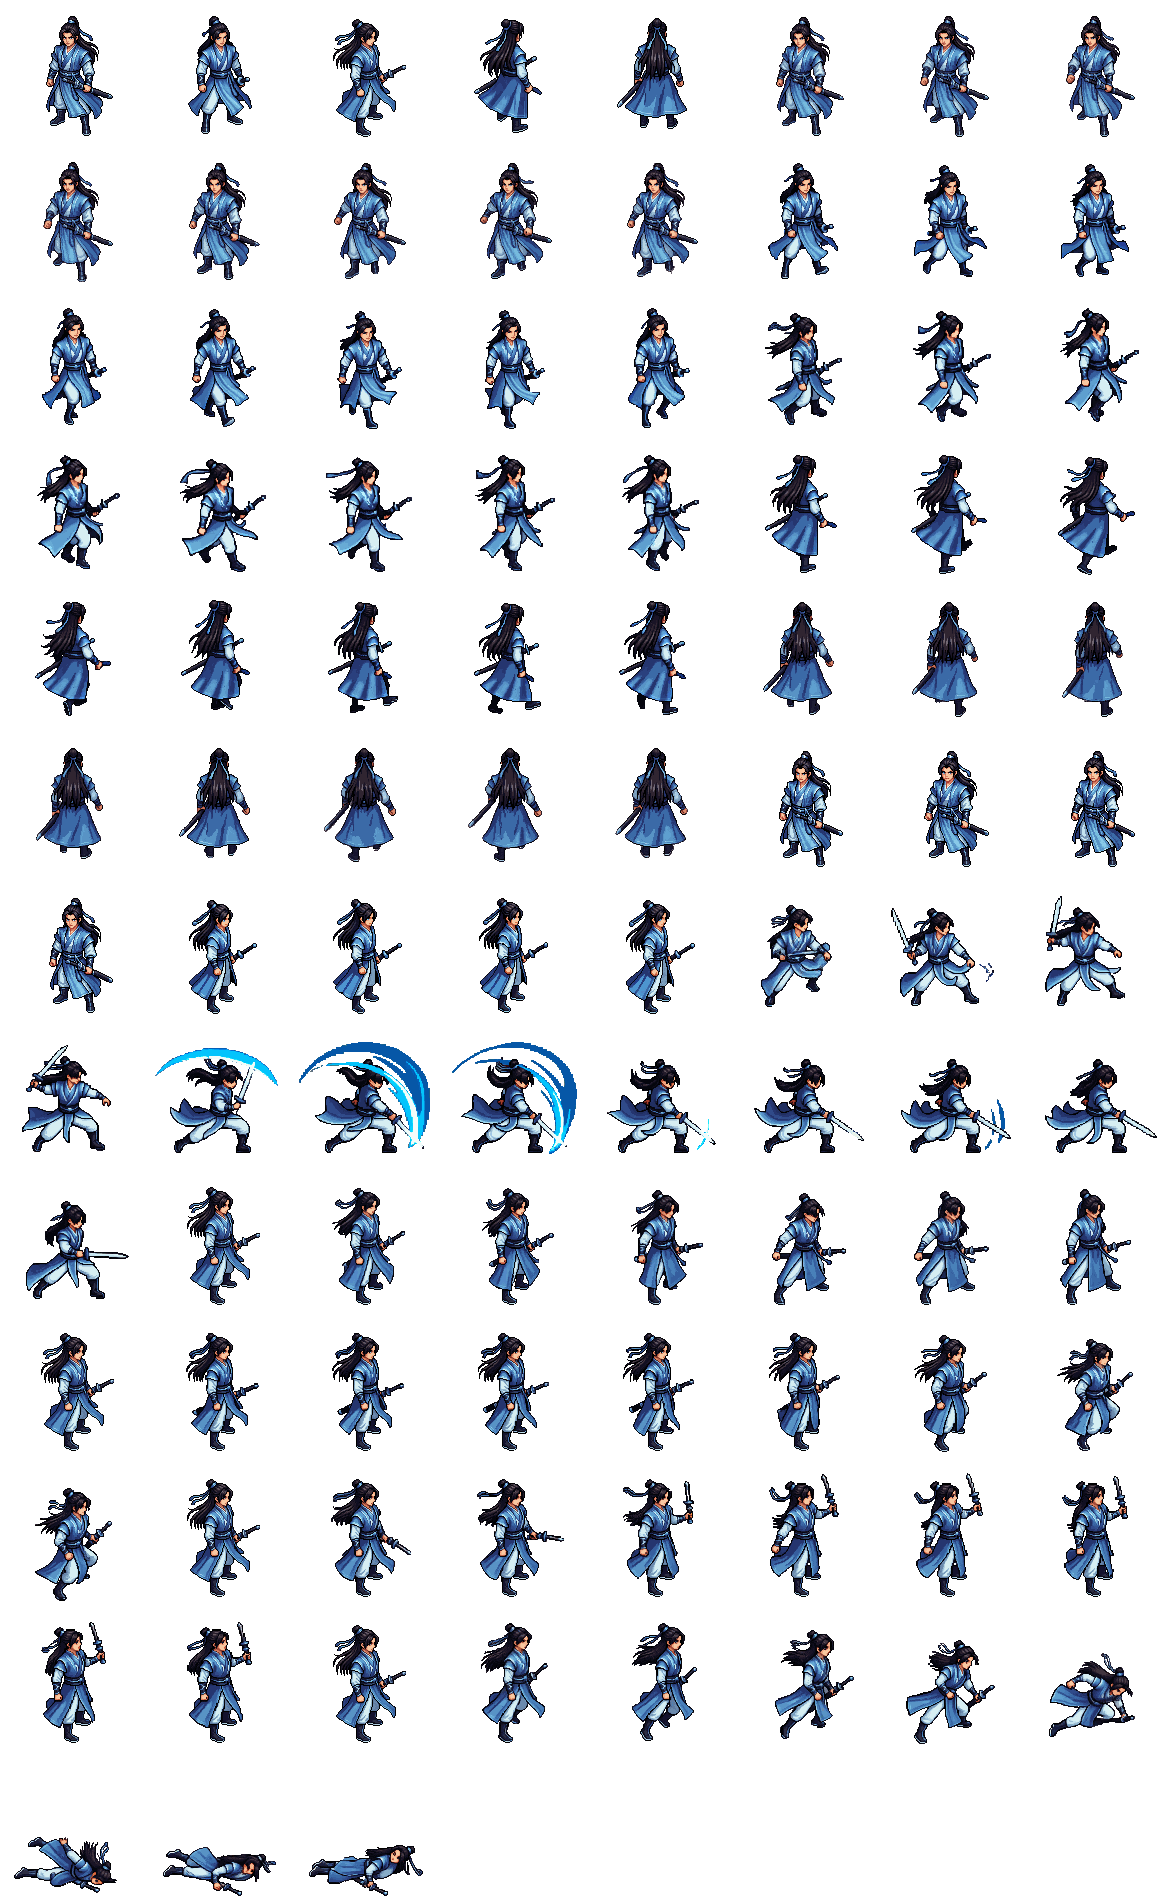
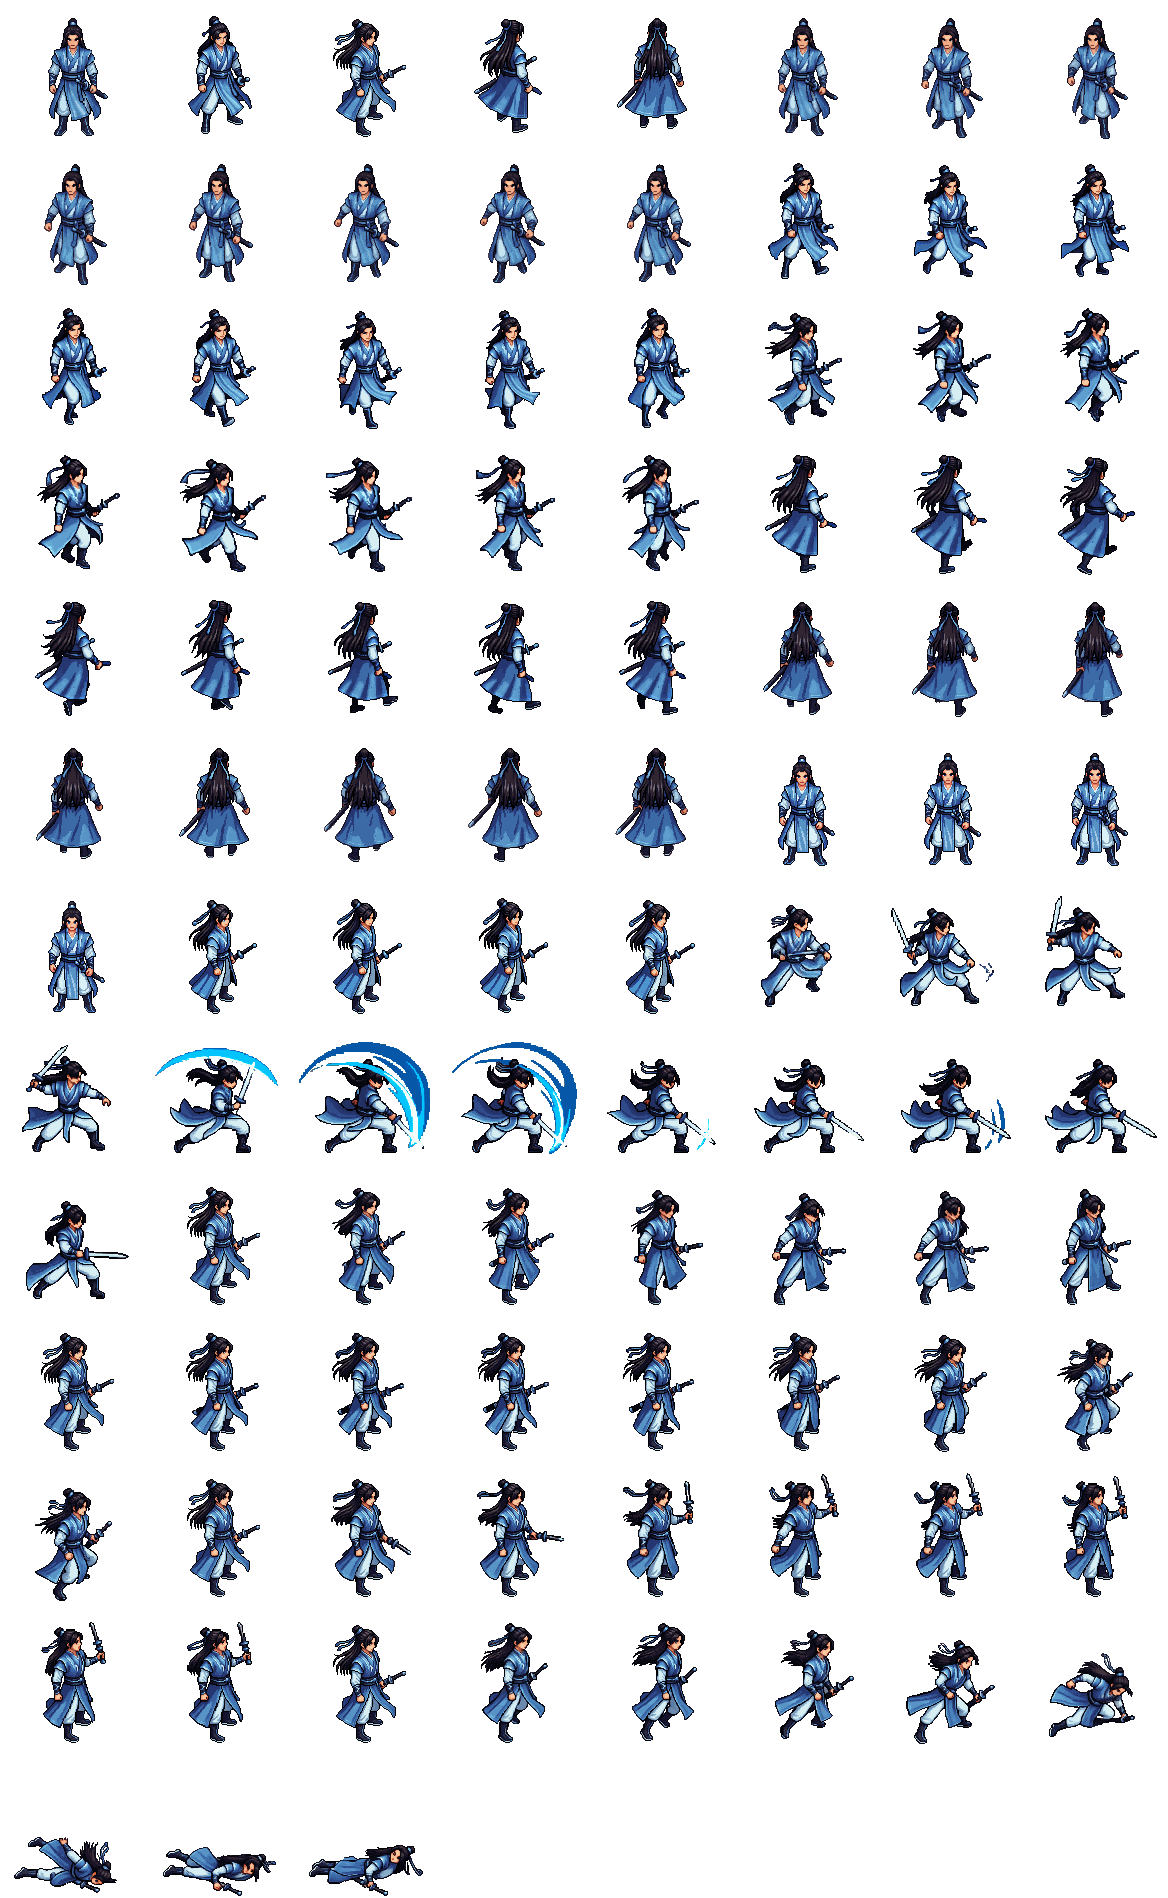
m1: walk south square to the camera (m1_square state)
m1's south rotation stands side-on, so even the skeleton walk built on it
looked sideways. A PixelLab state of him standing square-on (m1_square)
now gives his south walk, breathing idle and standing pose. The sheet
builder lines up a state's frames by its south pose's feet.

Claude-Session: https://claude.ai/code/session_015NF6nczcB9pq1DHZKmDsF7

diff --git a/scripts/build-pixellab-sheets.ts b/scripts/build-pixellab-sheets.ts
@@ -40,7 +40,7 @@
 import sharp from "sharp";
 import { createHash } from "node:crypto";
 import { existsSync, mkdirSync, readdirSync, readFileSync, writeFileSync } from "node:fs";
-import { join } from "node:path";
+import { join, relative, sep } from "node:path";
 import { PL_SHEET_DATA } from "../lib/characters/pl-sheets-data";
 import type { PlSheet } from "../lib/characters/pl-sheets";
 import type { CharacterClip, CharacterMotion } from "../lib/characters/catalog";
@@ -119,10 +119,18 @@ async function pack(id: string): Promise<PlSheet> {
   const defeat = add(clipOr("defeat", "east"));
 
   const frames = await Promise.all(paths.map(readFrame));
-  // The feet: the bottom of the standing south pose; the body's axis: the base canvas's centre.
-  const south = frames[stand.S];
+  // The feet: the bottom of the character's own standing south pose; the body's axis: the base canvas's centre.
+  const south = await readFrame(join(root, "rotations", "south.png"));
   const feet = south.box.y1 + 1 - south.dy, axis = BASE / 2;
   const figure = south.box.y1 - south.box.y0 + 1;
+  // A frame from another character (a state of the same person) stands its feet where that character's do:
+  // move it so its south pose's feet meet this one's.
+  const sources = [...new Set(paths.map((p) => relative(from!, p).split(sep)[0]).filter((c) => c !== id))];
+  for (const c of sources) {
+    const theirs = await readFrame(join(from!, c, "rotations", "south.png"));
+    const shift = feet - (theirs.box.y1 + 1 - theirs.dy);
+    paths.forEach((p, i) => { if (relative(from!, p).split(sep)[0] === c) frames[i].dy -= shift; });
+  }
   let left = 0, right = 0, up = 0, down = 0;
   for (const f of frames) {
     left = Math.max(left, axis - (f.box.x0 - f.dx));

diff --git a/lib/characters/pl-sheets-data.ts b/lib/characters/pl-sheets-data.ts
@@ -82,7 +82,7 @@ export const PL_SHEET_DATA: Record<string, PlSheet> = {
   },
   "m1": {
     "id": "m1",
-    "url": "/art/characters/pl/m1.png?v=2f648efa",
+    "url": "/art/characters/pl/m1.png?v=925d6750",
     "cell": 146,
     "columns": 8,
     "rows": 13,

diff --git a/docs/assets.md b/docs/assets.md
@@ -182,7 +182,7 @@ A person costs about 50 generations (3 to create, about 47 to animate); a beast 
 
 **Templates redraw the figure; v3 keeps it.** A template clip (`walking-8-frames`, `taking-punch`, `falling-back-death`, `fight-stance-idle-8-frames`) is redrawn frame by frame from a bare skeleton: the sword came and went between walk frames, the hit and the fall started from a boxer's fists and the fall kicked into the air. Template `skeleton-v3` (the skeleton posed onto the character's own pixels) is steadier but still let the sword drift. v3 custom clips that say what must stay ("the sword stays sheathed at his hip in every frame") keep the outfit and weapon whole, so every person clip except the breathing idle and the front / back walks (below) is v3. A take is picked per clip in `scripts/pixellab-characters.json` (`clips`), so a re-roll under a new animation name replaces a clip without renaming anything. `"walk:south"` picks a take for one direction only.
 
-**Front and back walks come from `skeleton-v3`.** The v3 loops for south and north drew the body turned to one side and slid the feet the wrong way (a foot crept forward and snapped back), so walking down or up the screen looked like stepping backward; re-rolls that asked for a square-on body were straighter but still slid. Template `walking-8-frames` in `skeleton-v3` mode (2 generations a direction) poses a real walk cycle onto the character's own pixels: square to the camera, sword in place, the feet alternating cleanly, and the eighth frame leads back into the first. Both heroes use it for `walk:south` and `walk:north` (`walk_skel`). Check a walk by its feet: the planted foot should slide against the way the body goes and the lifted one swing the way it goes; a backward range (`"walk_loop#7-0"`) plays a take in reverse.
+**Front and back walks come from `skeleton-v3`.** The v3 loops for south and north drew the body turned to one side and slid the feet the wrong way (a foot crept forward and snapped back), so walking down or up the screen looked like stepping backward; re-rolls that asked for a square-on body were straighter but still slid. Template `walking-8-frames` in `skeleton-v3` mode (2 generations a direction) poses a real walk cycle onto the character's own pixels: square to the camera, sword in place, the feet alternating cleanly, and the eighth frame leads back into the first. Both heroes use it for `walk:south` and `walk:north` (`walk_skel`). The skeleton keeps the pose it starts from, and m1's south rotation stands side-on (feet wide, turned to his left), so his south walk still looked sideways. He has a PixelLab state, `m1_square` (`create_character_state`: "standing upright… body, hips and shoulders square to the viewer, feet together"), whose south walk, breathing idle and standing pose he uses (`"walk:south": "m1_square/walk_skel"`, `"stand:south": "m1_square"`); the builder lines up a state's frames by its south pose's feet, and a manifest entry with `partOf` is never packed on its own. Check a walk by its feet: the planted foot should slide against the way the body goes and the lifted one swing the way it goes; a backward range (`"walk_loop#7-0"`) plays a take in reverse.
 
 **Pipeline.**
 

diff --git a/docs/changelog.md b/docs/changelog.md
@@ -8,7 +8,7 @@ Pull requests are on [github.com/tao-Isaman/wuxia-world](https://github.com/tao-
 
 ### PixelLab characters: the heroes and the wolf redrawn
 
-- **Straight front and back walks:** walking down or up the screen (S, and N with the W key) no longer looks like stepping backward or sideways. Both heroes' south and north walks are re-animated with PixelLab `skeleton-v3` (template `walking-8-frames`): square to the camera, the feet alternating cleanly, the sword kept. m1 walks east / west in a side-profile take. The sheet builder takes a per-direction take (`"walk:south"`) and a backward frame range.
+- **Straight front and back walks:** walking down or up the screen (S, and N with the W key) no longer looks like stepping backward or sideways. Both heroes' south and north walks are re-animated with PixelLab `skeleton-v3` (template `walking-8-frames`): square to the camera, the feet alternating cleanly, the sword kept. m1 walks east / west in a side-profile take, and faces south square-on (a PixelLab state of him, `m1_square`, gives his south walk, idle and standing pose: his first south pose stood side-on). The sheet builder takes a per-direction take (`"walk:south"`) and a backward frame range.
 - **Walk loops and real slashes:** the heroes' walks now loop seamlessly (each direction re-animated from one frame back to the same frame), and their attack draws the sword and swings it in a wide arc with a blade streak instead of only drawing it.
 - The heroes **m1** and **f1** are redrawn and animated by PixelLab (style B: 128 px, high detail): vivid colours at native pixels, an 8-frame walk in eight directions, breathing idles, a sword slash, hit, guard stance, victory and a fall. The walk, hit, stance and fall are custom (v3) clips that keep the sword in place; the first template takes made the sword flicker while walking and the fall kick into the air. **Wolves** (and wild dogs) are a PixelLab beast (style C) with idle, bite and hurt clips, on the map and in battle. The styles were chosen from three candidates per kind.
 - Engine: a character atlas now carries its own clips, eight-way walk cells and `native` flag (`lib/characters/sheet.ts`, `pl-sheets.ts`); the map, battle, cutscene and preview renderers read them, so rigged and PixelLab sheets play side by side. Beasts map to sheets through `BEAST_SHEETS`.
